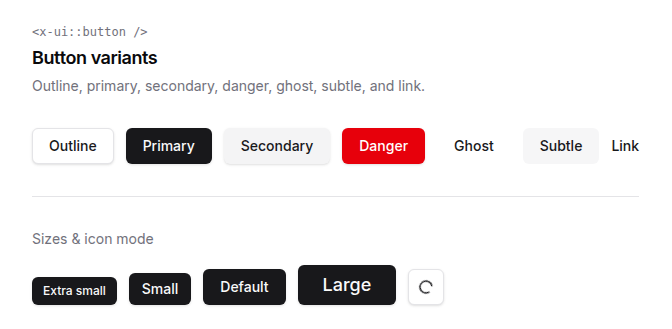
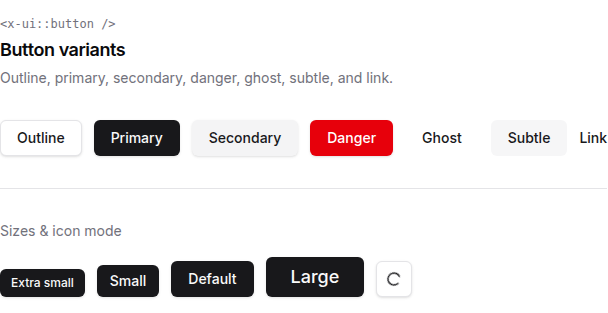
Update README.md for improved component previews and adjust layout styles
- Revised README.md to clarify component previews, ensuring they reflect the user's GitHub theme (light or dark).
- Updated image links for button, input, select, typography, and icon components to support theme-specific display.
- Adjusted layout styles in Blade views to enhance the presentation of media components.

diff --git a/workbench/resources/views/playbook/media/layout.blade.php b/workbench/resources/views/playbook/media/layout.blade.php
@@ -15,7 +15,8 @@
             box-sizing: border-box;
             width: max-content;
             max-width: min(56rem, 100vw);
-            padding: 1.5rem 2rem;
+            padding-block: 1rem;
+            padding-inline: 0;
         }
     </style>
 </head>

diff --git a/README.md b/README.md
@@ -128,7 +128,7 @@ The script crops to `#readme-media` (installs `playwright-core` under `scripts/`
 
 ---
 
-Component previews (playbook media pages). Each block is the same page in **light** and **dark** mode (append `?dark=1` for `.dark` on `<html>`). Click an image for the full-size PNG.
+Component previews follow your GitHub theme (light or dark). Click an image for the full-size PNG.
 
 <br>
 
@@ -136,13 +136,8 @@ Component previews (playbook media pages). Each block is the same page in **ligh
 
 Variants: `outline`, `primary`, `secondary`, `danger`, `ghost`, `subtle`, `link` — sizes `xs`–`lg`, icon mode (`square`), and `leading` / `trailing` slots.
 
-**Light**
-
-[![Button variants — light](docs/images/buttons-light.png)](docs/images/buttons-light.png)
-
-**Dark**
-
-[![Button variants — dark](docs/images/buttons-dark.png)](docs/images/buttons-dark.png)
+[![Button variants](docs/images/buttons-light.png#gh-light-mode-only)](docs/images/buttons-light.png)
+[![Button variants](docs/images/buttons-dark.png#gh-dark-mode-only)](docs/images/buttons-dark.png)
 
 ```blade
 <x-ui::button variant="primary" size="lg">Save changes</x-ui::button>
@@ -164,13 +159,8 @@ Icon slots in the example need `stencil:add icon` and `stencil:icon search`.
 
 Affixes, `prefix` / `suffix`, and `invalid`, `disabled`, and `readonly` states.
 
-**Light**
-
-[![Input — light](docs/images/input-light.png)](docs/images/input-light.png)
-
-**Dark**
-
-[![Input — dark](docs/images/input-dark.png)](docs/images/input-dark.png)
+[![Input](docs/images/input-light.png#gh-light-mode-only)](docs/images/input-light.png)
+[![Input](docs/images/input-dark.png#gh-dark-mode-only)](docs/images/input-dark.png)
 
 ```blade
 <x-ui::input name="email" type="email" placeholder="you@example.com">
@@ -193,13 +183,8 @@ php artisan stencil:add input
 
 Accessible listbox (not a native `<select>`). Subcomponents include `trigger`, `value`, `content`, `group`, `label`, `item`, and `separator`. `stencil:add select` copies `select.js` and patches your Vite entry (for example `resources/js/app.js`) to import it.
 
-**Light**
-
-[![Select — light](docs/images/select-light.png)](docs/images/select-light.png)
-
-**Dark**
-
-[![Select — dark](docs/images/select-dark.png)](docs/images/select-dark.png)
+[![Select](docs/images/select-light.png#gh-light-mode-only)](docs/images/select-light.png)
+[![Select](docs/images/select-dark.png#gh-dark-mode-only)](docs/images/select-dark.png)
 
 ```blade
 <x-ui::select name="industry" placeholder="Choose industry…">
@@ -222,13 +207,8 @@ php artisan stencil:add select
 
 `<x-ui::heading />` with semantic levels `1`–`6` and `<x-ui::text />` with the `sm` / `default` / `lg` / `xl` scale, variants, and colors.
 
-**Light**
-
-[![Typography — light](docs/images/typography-light.png)](docs/images/typography-light.png)
-
-**Dark**
-
-[![Typography — dark](docs/images/typography-dark.png)](docs/images/typography-dark.png)
+[![Typography](docs/images/typography-light.png#gh-light-mode-only)](docs/images/typography-light.png)
+[![Typography](docs/images/typography-dark.png#gh-dark-mode-only)](docs/images/typography-dark.png)
 
 ```blade
 <head>
@@ -257,13 +237,8 @@ php artisan stencil:add icon
 php artisan stencil:icon search grip-vertical
 ```
 
-**Light**
-
-[![Icons — light](docs/images/icons-light.png)](docs/images/icons-light.png)
-
-**Dark**
-
-[![Icons — dark](docs/images/icons-dark.png)](docs/images/icons-dark.png)
+[![Icons](docs/images/icons-light.png#gh-light-mode-only)](docs/images/icons-light.png)
+[![Icons](docs/images/icons-dark.png#gh-dark-mode-only)](docs/images/icons-dark.png)
 
 ```blade
 <x-ui::icons.search />
